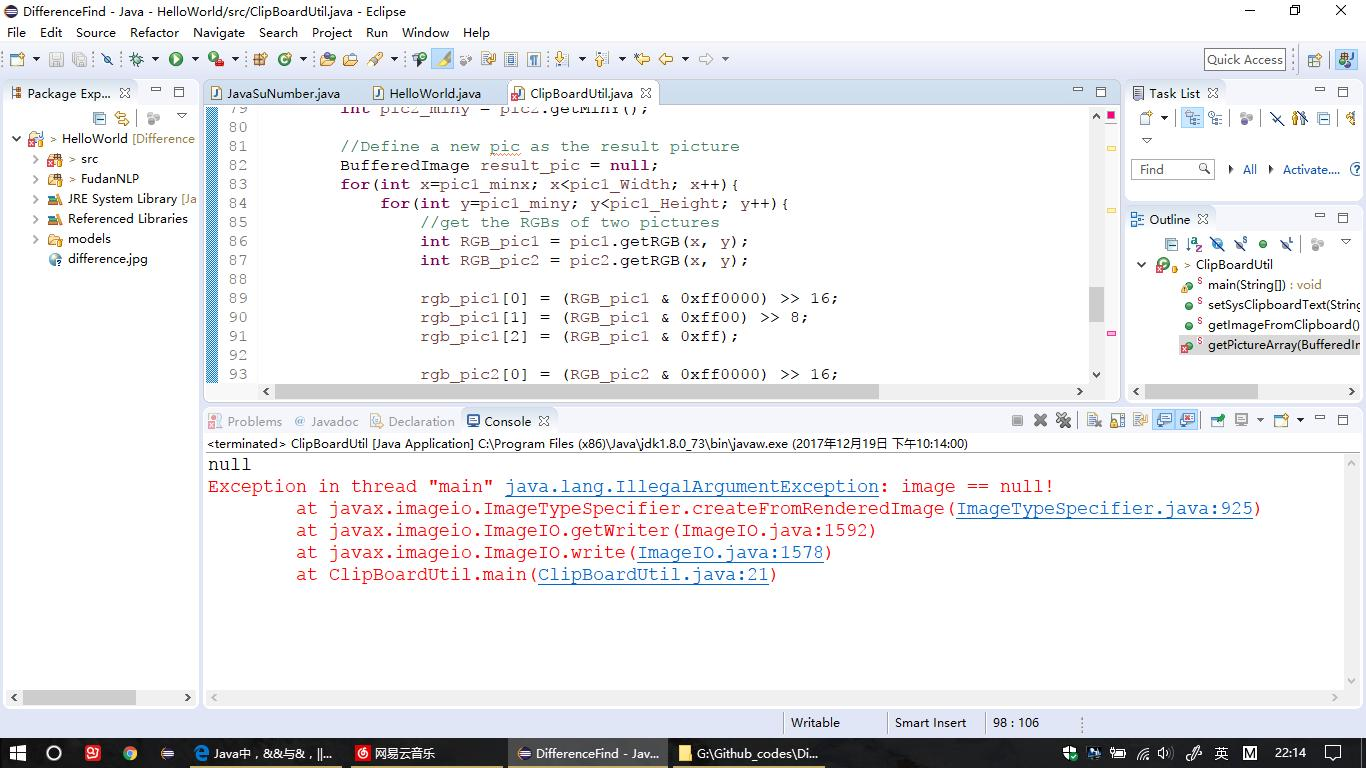
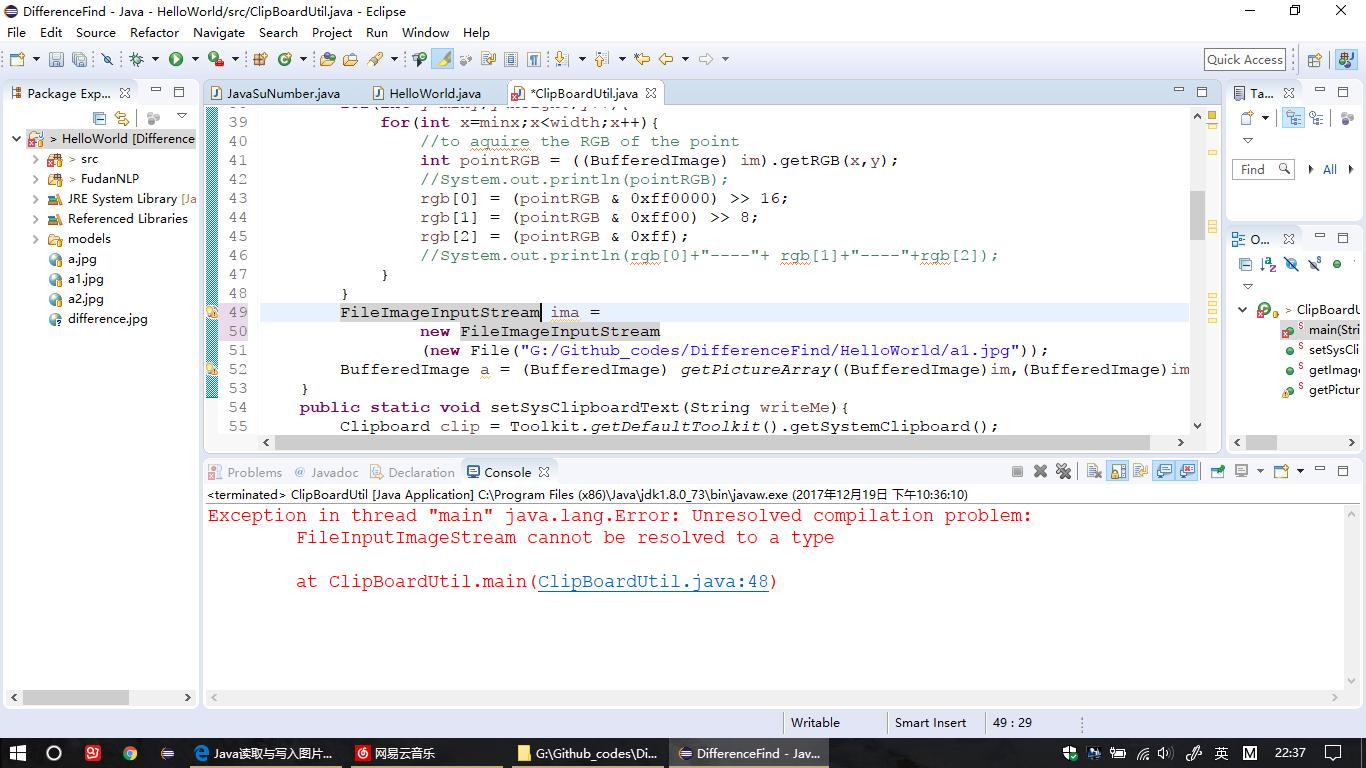
ImageInput

diff --git a/HelloWorld/src/ClipBoardUtil.java b/HelloWorld/src/ClipBoardUtil.java
@@ -8,8 +8,11 @@ import java.awt.image.BufferedImage;
 import java.awt.image.RenderedImage;
 import java.io.ByteArrayOutputStream;
 import java.io.File;
+import java.io.FileInputStream;
+
 import javax.imageio.*;
 import javax.imageio.ImageIO;
+import javax.imageio.stream.FileImageInputStream;
 
 public class ClipBoardUtil{
     public static void main(String[] args) throws Exception{
@@ -43,8 +46,13 @@ public class ClipBoardUtil{
 				//System.out.println(rgb[0]+"----"+ rgb[1]+"----"+rgb[2]);
 			}
 		}
-		
-		BufferedImage a = (BufferedImage) getPictureArray((BufferedImage)im,(BufferedImage)im);
+		FileImageInputStream ima1 = 
+				new FileImageInputStream
+				(new File("G:/Github_codes/DifferenceFind/HelloWorld/a1.jpg"));
+		FileImageInputStream ima2 = 
+				new FileImageInputStream
+				(new File("G:/Github_codes/DifferenceFind/HelloWorld/a2.jpg"));
+		BufferedImage a = (BufferedImage) getPictureArray((BufferedImage)ima1,(BufferedImage)ima2);
     }
     public static void setSysClipboardText(String writeMe){  
         Clipboard clip = Toolkit.getDefaultToolkit().getSystemClipboard();  
